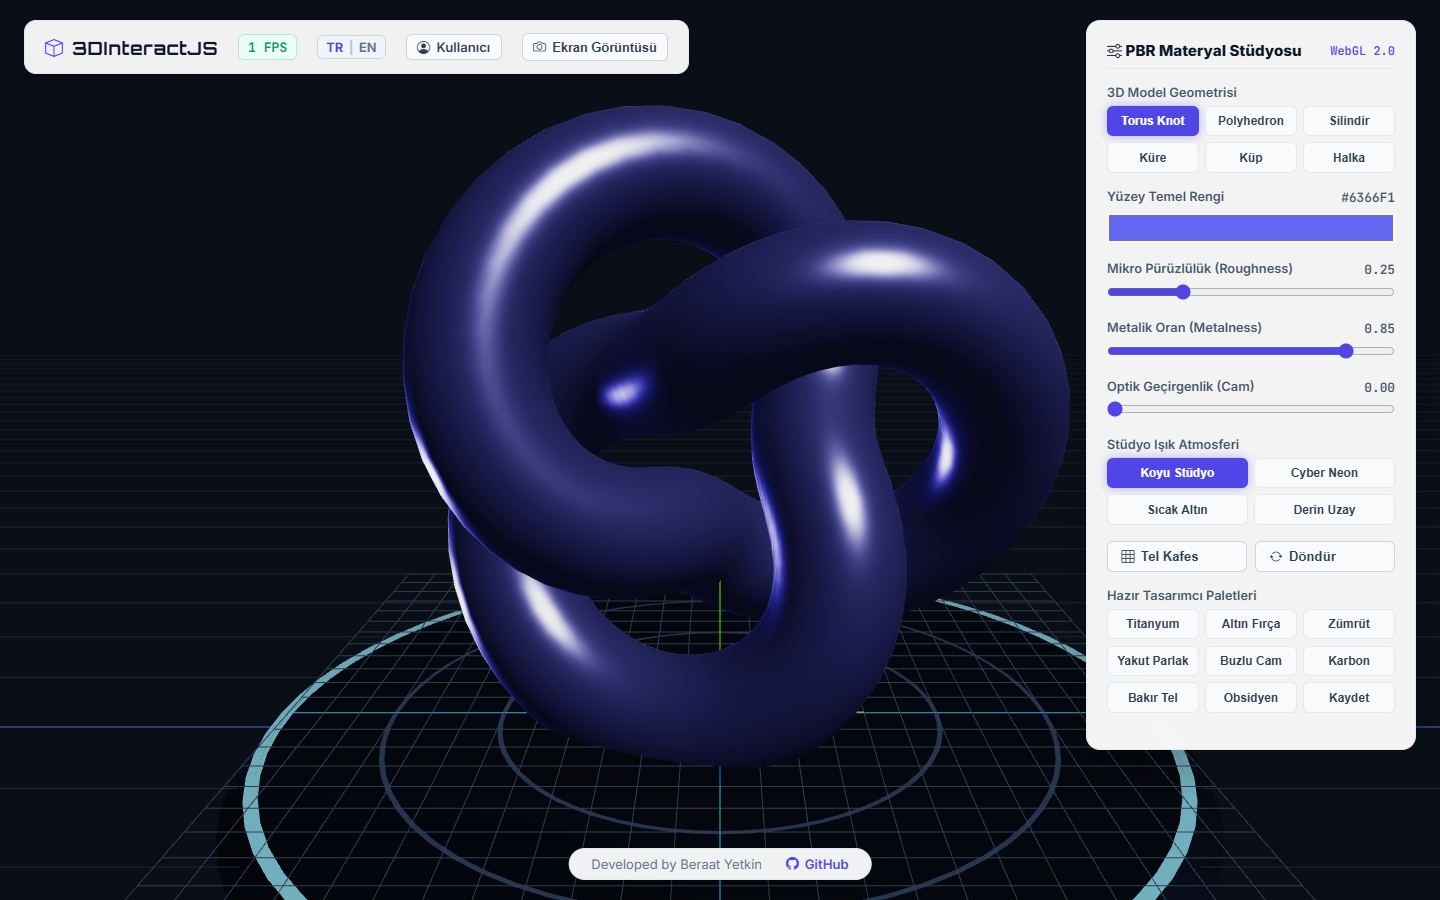
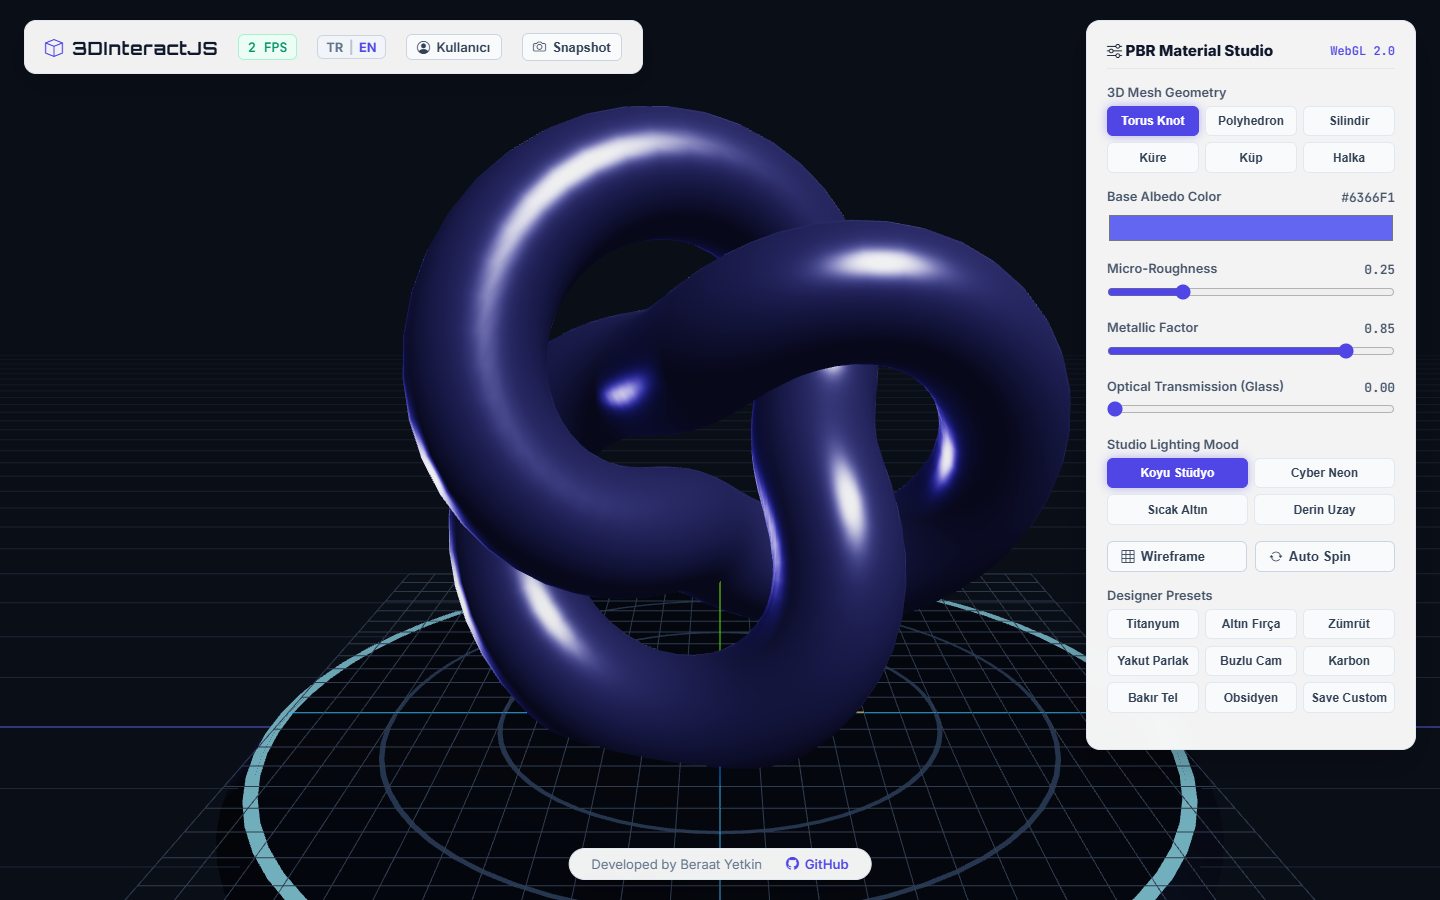
docs: clean English documentation without emojis, English screenshots and default locale

diff --git a/index.html b/index.html
@@ -1,4 +1,4 @@
-<!DOCTYPE html>
+<!DOCTYPE html>
 <html lang="tr">
 <head>
   <meta charset="UTF-8">
@@ -465,7 +465,7 @@
   </div>
 
   <script>
-    let currentLang = localStorage.getItem('3d_lang') || 'tr';
+    let currentLang = localStorage.getItem('3d_lang') || 'en';
     let currentDesigner = localStorage.getItem('3d_designer') || 'Kullanıcı';
     let autoRotate = true;
 

diff --git a/README.md b/README.md
@@ -1,99 +1,100 @@
-# 3DInteractJS 🧊
-> **Etkileşimli PBR 3D Materyal Stüdyosu • WebGL 2.0 & Three.js CAD Konfigüratörü**
+# 3DInteractJS
+> Interactive PBR 3D Material Studio • WebGL 2.0 & Three.js CAD Configurator
 
-[![Canlı Demo](https://img.shields.io/badge/Canl%C4%B1_Demo-3dinteract.web.app-4f46e5?style=for-the-badge&logo=google-chrome&logoColor=white)](https://3dinteract.web.app)
-[![Lisans](https://img.shields.io/badge/Lisans-MIT-blue.svg?style=for-the-badge)](LICENSE)
-[![3D Engine](https://img.shields.io/badge/3D_Motoru-Three.js_r128_WebGL_2.0-black?style=for-the-badge&logo=three.js)](https://threejs.org)
-[![Arayüz](https://img.shields.io/badge/Aray%C3%BCz-Koyu_CAD_Grid_%26_Beyaz_HUD-indigo?style=for-the-badge&logo=css3)](https://developer.mozilla.org)
-[![Dil](https://img.shields.io/badge/Dil-T%C3%BCrk%C3%A7e_%7C_English-green?style=for-the-badge)](https://3dinteract.web.app)
-
----
-
-## 📸 Canlı Önizleme (Preview)
-
-### CAD Çalışma Tezgahı & PBR Materyal Stüdyosu
-Karanlık PBR grid zemin, döner stand, neon hedefleme halkası, sağda yüzen beyaz tasarım paneli ve ekranın altında yüzen modern HUD rozeti:
-![3DInteractJS CAD Stüdyo Önizleme](docs/preview.png)
+[![Live Demo](https://img.shields.io/badge/Live_Demo-3dinteract.web.app-4f46e5?style=for-the-badge)](https://3dinteract.web.app)
+[![License](https://img.shields.io/badge/License-MIT-blue.svg?style=for-the-badge)](LICENSE)
+[![3D Engine](https://img.shields.io/badge/3D_Engine-Three.js_r128_WebGL_2.0-black?style=for-the-badge)](https://threejs.org)
+[![Interface](https://img.shields.io/badge/Interface-Dark_CAD_Grid_White_HUD-indigo?style=for-the-badge)](https://developer.mozilla.org)
+[![Language Support](https://img.shields.io/badge/Language-English_%7C_Turkish-green?style=for-the-badge)](https://3dinteract.web.app)
 
 ---
 
-## 🌟 Öne Çıkan Özellikler
+## Preview
 
-### 1. Profesyonel CAD & PBR Stüdyo Mimarisi
-- **Doğrudan Açılış (Login Engeli Yok)**: Kullanıcı deneyimini kesintiye uğratmamak adına giriş ekranı olmadan doğrudan tam ekran interaktif 3D çalışma tezgahı olarak açılır.
-- **Koyu CAD Izgarası & PBR Zemin**: Endüstriyel tasarım araçlarına (Blender, Maya, SolidWorks) uygun hassas ızgara zemini, yön eksenleri ve ışık yansıtıcı döner platform.
-- **Yüzen Saf Beyaz HUD Panelleri**:
-  - Sol üstte marka, anlık FPS sayacı, `[ TR | EN ]` dil seçici ve yüksek çözünürlüklü PNG ekran görüntüsü alma aracı.
-  - Sağda gerçek zamanlı PBR parametre kontrol paneli.
-  - Altta şık ve göze batmayan yüzen telif rozeti (`Developed by Beraat Yetkin` - `GitHub`).
-
-### 2. Gerçek Zamanlı PBR (Fizik Tabanlı Render) Kontrolleri
-- **3D Geometri Seçimi**: Torus Knot, Polyhedron, Silindir, Küre, Küp ve Halka modelleri arasında tek tıkla geçiş.
-- **Yüzey Materyal Ayarları**:
-  - Yüzey Temel Rengi (Hex Color Picker).
-  - Mikro Pürüzlülük (*Roughness*: 0.00 - 1.00).
-  - Metalik Oran (*Metalness*: 0.00 - 1.00).
-  - Optik Geçirgenlik / Cam Etkisi (*Transmission / Glass*: 0.00 - 1.00).
-- **Stüdyo Işık Atmosferleri**: *Koyu Stüdyo*, *Cyber Neon*, *Sıcak Altın* ve *Derin Uzay* HDR ışık simülasyonları.
-- **Tel Kafes (Wireframe) & Otomatik Döndürme (Auto-Rotate)** modları.
-- **Hazır Tasarımcı Paletleri**: *Titanyum*, *Altın Fırça*, *Zümrüt*, *Yakut Parlak*, *Buzlu Cam*, *Karbon*, *Bakır Tel*, *Obsidyen*.
-
-### 3. Çift Dilli Tam Destek (TR | EN)
-- Sol üstteki `[ TR | EN ]` dil seçici ile stüdyodaki tüm geometri adları, materyal parametreleri, ışık modları ve palet etiketleri Türkçe ve İngilizce arasında anında dönüştürülür.
+### CAD Workbench & PBR Material Studio
+Dark PBR grid workbench, rotation pedestal, neon target ring, floating white parameter controls, and modern bottom HUD pill badge:
+![3DInteractJS CAD Studio Preview](docs/preview.png)
 
 ---
 
-## 🛠 Teknoloji Yığını (Tech Stack)
+## Key Features
 
-| Bileşen | Teknoloji | Açıklama |
+### Professional CAD & PBR Studio Architecture
+- Immediate Interactive Access: Launches directly into full-viewport 3D workbench without login barriers.
+- Dark CAD Grid & PBR Stage: Industrial design environment inspired by Blender, Maya, and SolidWorks featuring coordinate axes, orientation compass, and turntable floor.
+- Floating White HUD Overlays:
+  - Top-left branding, live FPS performance monitor, bilingual selector, and high-resolution PNG snapshot capture.
+  - Right-side real-time physical material parameter adjustment panel.
+  - Bottom subtle floating attribution pill badge (Developed by Beraat Yetkin - GitHub).
+
+### Real-Time Physically Based Rendering (PBR) Controls
+- 3D Model Geometries: Torus Knot, Polyhedron, Cylinder, Sphere, Cube, and Ring meshes.
+- Surface Material Properties:
+  - Base Color (Hex Color Picker).
+  - Micro Roughness (0.00 - 1.00).
+  - Metalness (0.00 - 1.00).
+  - Optical Transmission / Glass (0.00 - 1.00).
+- Studio Lighting Environments: Dark Studio, Cyber Neon, Warm Gold, and Deep Space HDRI configurations.
+- Wireframe and Auto-Rotation orbital camera modes.
+- Curated Designer Presets: Titanium, Brushed Gold, Emerald, Ruby Gloss, Frosted Glass, Carbon, Copper Wire, Obsidian.
+
+### Bilingual Support (English | Turkish)
+- Instant language toggle switching all mesh labels, material controls, lighting modes, and preset buttons between English and Turkish.
+- Default language is English.
+
+---
+
+## Tech Stack
+
+| Layer | Technology | Description |
 | :--- | :--- | :--- |
-| **3D Rendering** | Three.js r128 (WebGL 2.0) | PBR MeshPhysicalMaterial, OrbitControls, gölge haritaları |
-| **Arayüz (UI)** | HTML5, CSS3 Glassmorphism | Yüzen saf beyaz yarı saydam HUD panelleri, modern tipografi |
-| **İkonlar** | Bootstrap Icons v1.11.3 | Vektörel stüdyo ikonları |
-| **Yayın** | Firebase Hosting | Google CDN üzerinden optimize edilmiş yüksek hızlı statik barındırma |
+| 3D Rendering | Three.js r128 (WebGL 2.0) | MeshPhysicalMaterial, OrbitControls, shadow mapping |
+| UI & HUD | HTML5, CSS3 Glassmorphism | Floating white translucent panels, modern typography |
+| Icons | Bootstrap Icons v1.11.3 | Studio tool icons |
+| Hosting | Firebase Hosting | High-speed global edge distribution |
 
 ---
 
-## 📁 Proje Dizin Yapısı
+## Directory Structure
 
 ```
 3DInteractJsScript/
-├── index.html              # 3D motoru, WebGL canvas ve HUD kontrolleri
-├── docs/                   # Dokümantasyon ve ekran görüntüleri
-│   └── preview.png         # 3D CAD stüdyosu yüksek çözünürlüklü önizleme
-└── README.md               # Proje dokümantasyonu
+├── index.html              # 3D engine, WebGL canvas, and HUD controls
+├── docs/                   # Documentation assets and screenshots
+│   └── preview.png         # High-resolution CAD studio preview
+└── README.md               # Project documentation
 ```
 
 ---
 
-## ⚡ Hızlı Başlangıç (Local Setup)
+## Getting Started
 
-1. Depoyu klonlayın:
+1. Clone the repository:
    ```bash
    git clone https://github.com/kubrvk/3DInteractJsScript.git
    cd 3DInteractJsScript
    ```
-2. `index.html` dosyasını tarayıcınızda açın:
+2. Open `index.html` directly in your browser:
    ```bash
    start index.html
    ```
-3. Alternatif yerel HTTP sunucusu ile çalıştırmak için:
+3. Alternatively, serve with any local HTTP server:
    ```bash
    npx serve .
    ```
-4. Tarayıcınızda `http://localhost:3000` adresine gidin.
+4. Access `http://localhost:3000` in your browser.
 
 ---
 
-## 🌐 Canlı Sistem
+## Live System
 
-- **Canlı URL**: [https://3dinteract.web.app](https://3dinteract.web.app)
+- Live URL: [https://3dinteract.web.app](https://3dinteract.web.app)
 
 ---
 
-## 👤 Geliştirici
+## Author
 
-**Developed by Beraat Yetkin**
+Developed by Beraat Yetkin
 - GitHub: [@kubrvk](https://github.com/kubrvk)
-- Proje Deposu: [3DInteractJsScript](https://github.com/kubrvk/3DInteractJsScript)
-- Portfolyo: [Beraat Yetkin Portfolio](https://github.com/kubrvk/portfolio)
+- Repository: [3DInteractJsScript](https://github.com/kubrvk/3DInteractJsScript)
+- Portfolio: [Beraat Yetkin Portfolio](https://github.com/kubrvk/portfolio)
